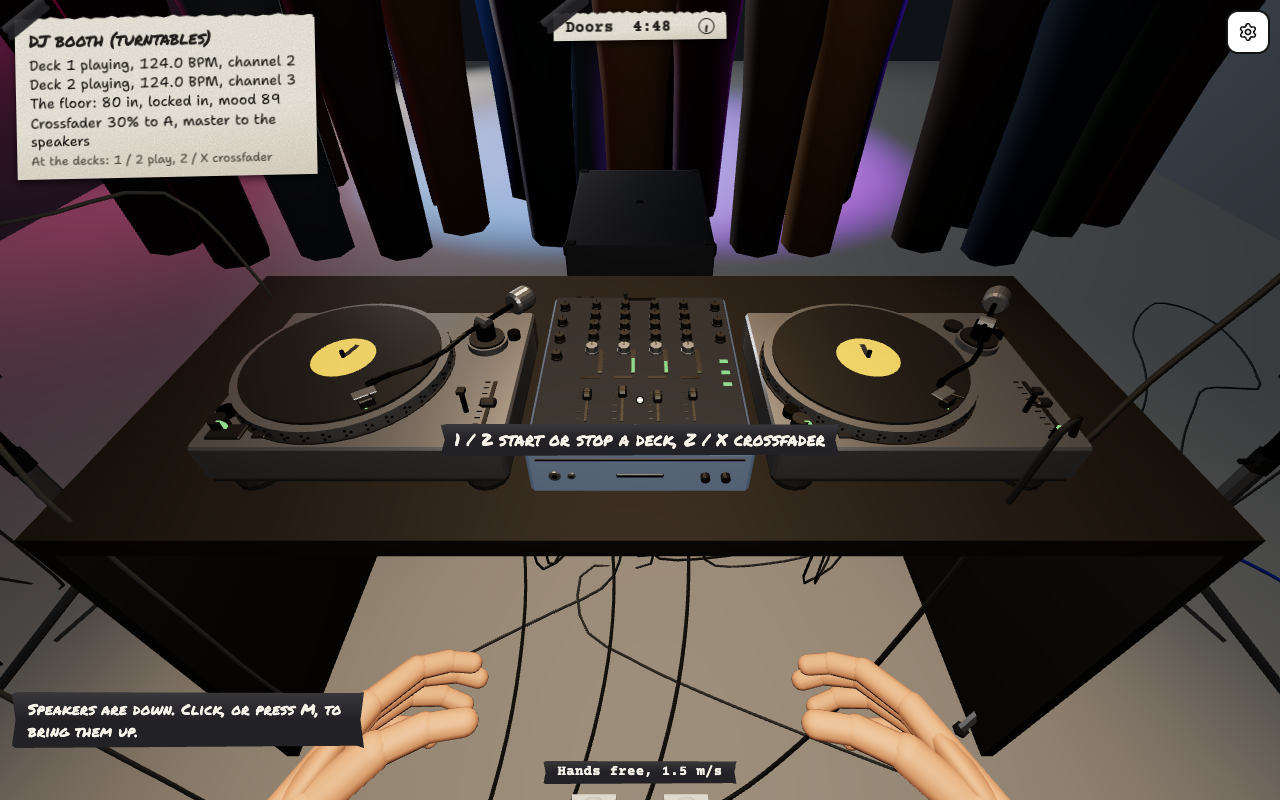
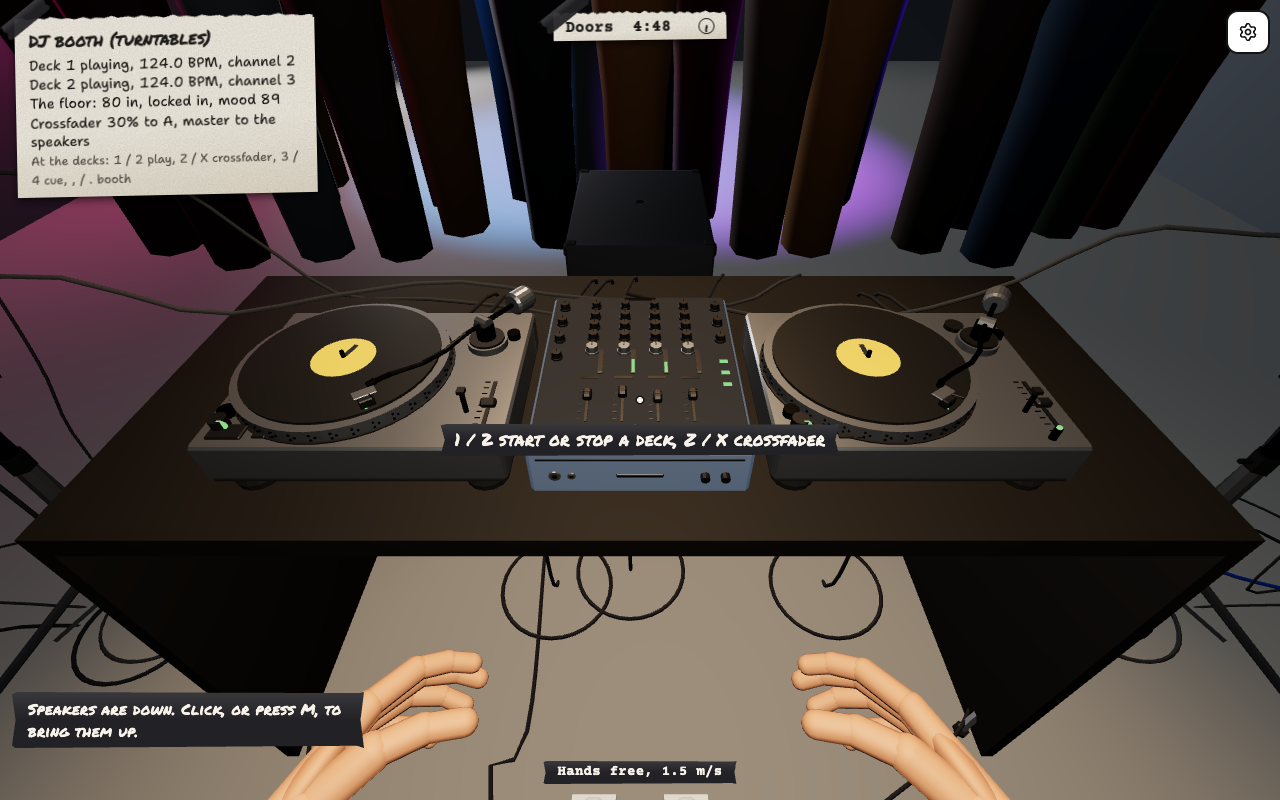
Sound Guy Simulator live set: the booth table is solid to cables, so the leads run off its back edge and not through the top (Part of #5029) (#5094)

diff --git a/apps/load-in/src/cables/cables.ts b/apps/load-in/src/cables/cables.ts
@@ -158,8 +158,10 @@ export function endAt(w: World, c: Cables, run: Run, end: "a" | "b"): Vec | null
 }
 const near = (w: World, p: Vec, reach = REACH) => Math.hypot(p.x - w.you.x, p.z - w.you.z) <= reach;
 
-const solids = (w: World): Solid[] =>
-  w.items.filter((i) => i.key !== w.held?.key).map((i) => { const [sw, h, d] = dims(i); return { x: i.x, y: i.y, z: i.z, rot: i.rot, w: sw, h, d }; });
+const solids = (w: World): Solid[] => [
+  ...w.items.filter((i) => i.key !== w.held?.key).map((i) => { const [sw, h, d] = dims(i); return { x: i.x, y: i.y, z: i.z, rot: i.rot, w: sw, h, d }; }),
+  ...(w.level.tables ?? []).map((t) => ({ x: t.x, y: 0, z: t.z, rot: 0, w: t.w, h: t.h, d: t.d })),
+];
 
 /** One tick: a held end can't go farther than the cable reaches (it stops you), then every laid-out cable settles. */
 export function stepCables(w: World, c: Cables, dt: number) {

diff --git a/apps/load-in/src/sim.ts b/apps/load-in/src/sim.ts
@@ -32,6 +32,8 @@ export interface Level {
   bounds: { x0: number; x1: number; z0: number; z1: number };
   /** The room you see: walls stand on these edges, with the door open on the +z side. */
   room: { x0: number; x1: number; z0: number; z1: number; height: number; door: number };
+  /** Built-in furniture a cable lies on or falls off, not through (a DJ booth's table): centre on the floor, size. */
+  tables?: readonly { x: number; z: number; w: number; d: number; h: number }[];
   /** Fixed things you plug into, not carried. */
   outlets: { key: string; x: number; y: number; z: number; circuit?: string; amps?: 15 | 20 }[];
   /** Where people walk: a cable lying across one with no ramp over it is a trip hazard. */

diff --git a/apps/load-in/src/venues/dj-booth.ts b/apps/load-in/src/venues/dj-booth.ts
@@ -104,6 +104,8 @@ const media = booth("media");
 function room(b: Booth, name: string): Level {
   return {
     name,
+    // The booth table is solid to cables: the leads run off its back edge and down, not through the top.
+    tables: [b.table],
     bounds: { x0: -3.75, x1: 3.75, z0: 0.25, z1: 8.75 },
     room: { x0: -4, x1: 4, z0: 0, z1: 9, height: 3, door: 1.8 },
     outlets: [
